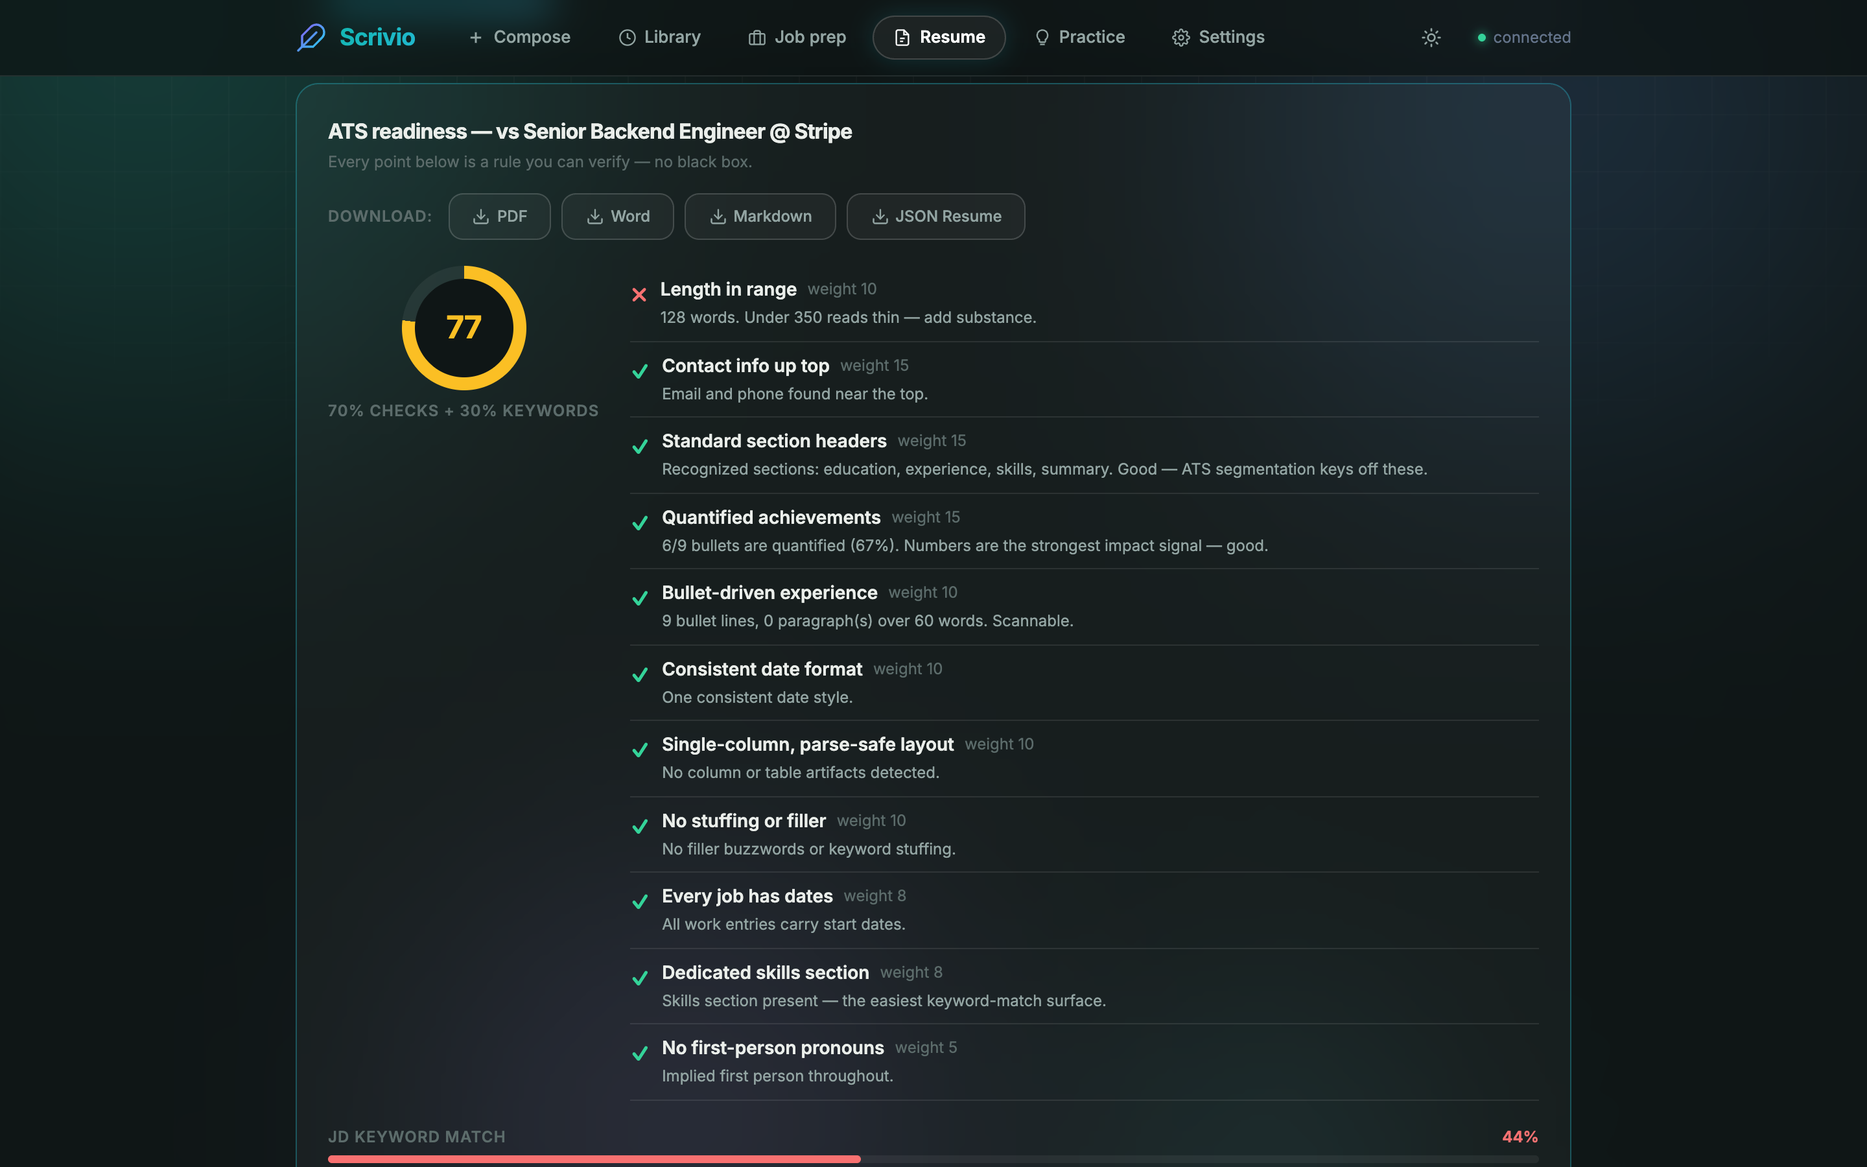
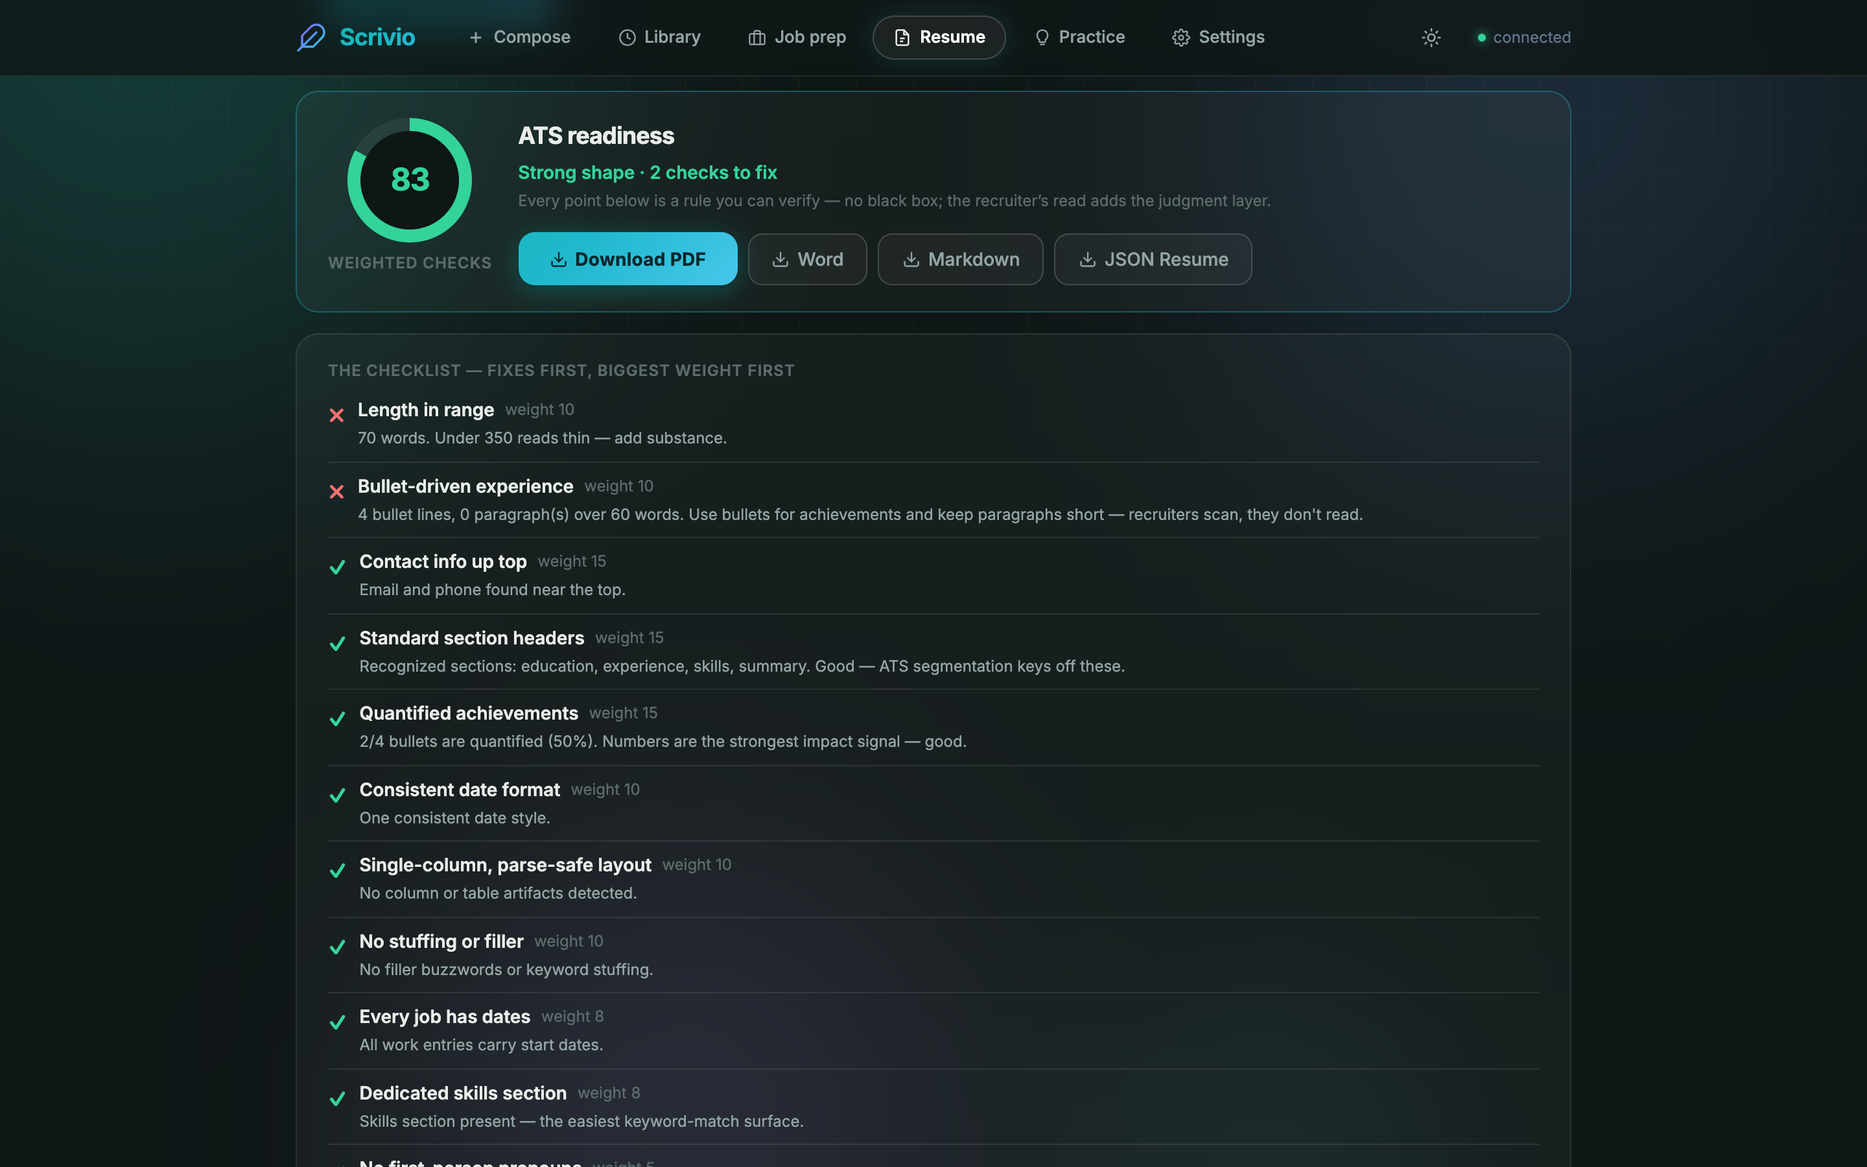
Resume studio UI revamp: progress bar with time-lapse, card hierarchy, downloads impossible to miss
The report was one undifferentiated wall with a buried elapsed clock and
corner download chips. Now:

- A dedicated progress card sits at the top during analyze/tailor: a
  gradient bar filling against a provider-aware estimate (elapsed /
  ~est., CLI 90s/130s vs API 30s/50s from /settings), stage rows
  ("checklist ✓ computed instantly" / "structure & review running"),
  completing to 100% + check before dismissing — failure state holds
  visible with an ✗.
- The report is a stack of focused cards: hero (score ring + verdict
  line "Strong shape · 2 checks to fix · 44% match" + export bar),
  checklist, keyword match, recruiter's read (dashed placeholder while
  analyzing, red card on error), tailor CTA.
- Downloads are now an export bar with Download PDF as the primary
  action, repeated at the TOP of the tailored view (it was below the
  full preview — the exact button-nobody-finds complaint).

README screenshot refreshed. 405 tests green.

Changed region(s): [[0.1562, 0.0933, 0.7188, 1.0], [0.1875, 0.8711, 0.3125, 0.9022], [0.5938, 0.2178, 0.6562, 0.2489]]

diff --git a/ui/index.html b/ui/index.html
@@ -1399,8 +1399,11 @@
       </div>
     </div>
 
-    <!-- Report -->
-    <div id="resume-report" class="hidden card px-6 py-6 mb-6" style="border-color:rgba(32,184,205,0.35)"></div>
+    <!-- Live progress (analyze / tailor) — always at the top, impossible to miss -->
+    <div id="resume-progress" class="hidden card px-6 py-5 mb-6" style="border-color:rgba(32,184,205,0.45)"></div>
+
+    <!-- Report: a stack of focused cards (hero + checklist + keywords + review) -->
+    <div id="resume-report" class="hidden mb-6"></div>
 
     <!-- Tailored -->
     <div id="resume-tailored" class="hidden card px-6 py-6 mb-6" style="border-color:rgba(52,211,153,0.35)"></div>
@@ -3388,6 +3391,20 @@
   let _resumeFile = null;   // { b64, filename } from the upload input
   let _resumeDoc = null;    // the ResumeDoc currently on screen
   let _resumeWatch = null;  // { poll, clock, startedAt } while analyzing/tailoring
+  // Expected durations (seconds) for the progress bar — provider-aware,
+  // refreshed from /settings when the studio opens. Estimates, labeled so.
+  let _resumeEst = { analyze: 75, tailor: 110 };
+
+  async function _refreshResumeEstimates() {
+    try {
+      const r = await fetch('/settings');
+      if (!r.ok) return;
+      const s = await r.json();
+      _resumeEst = s.resolved_provider === 'claude-cli'
+        ? { analyze: 90, tailor: 130 }   // process spawn + subscription pace
+        : { analyze: 30, tailor: 50 };   // direct API
+    } catch (_) { /* keep defaults */ }
+  }
 
   function _stopResumeWatch() {
     if (_resumeWatch) {
@@ -3397,34 +3414,100 @@
     }
   }
 
-  function _fmtElapsed(startedAt) {
-    const s = Math.floor((Date.now() - startedAt) / 1000);
+  function _fmtSecs(total) {
+    const s = Math.max(0, Math.floor(total));
     return `${Math.floor(s / 60)}:${String(s % 60).padStart(2, '0')}`;
   }
 
-  // Poll the doc while a background phase runs; tick an elapsed clock so
-  // the wait is never silent. kind: 'analyze' | 'tailor'.
+  const _PROGRESS_COPY = {
+    analyze: {
+      title: 'Analyzing your resume',
+      done1: 'ATS checklist & keyword match', done1sub: 'computed instantly — the report below is live',
+      stage2: 'Structure mapping & recruiter review',
+      stage2sub: 'two AI passes running in parallel',
+    },
+    tailor: {
+      title: 'Tailoring to the job description',
+      done1: 'Current resume & review loaded', done1sub: 'the rewrite starts from your real structure',
+      stage2: 'Honest rewrite',
+      stage2sub: 'rephrasing and reordering — never inventing',
+    },
+  };
+
+  function _showResumeProgress(kind) {
+    const c = _PROGRESS_COPY[kind];
+    const est = _resumeEst[kind];
+    $('resume-progress').innerHTML = `
+      <div class="flex items-center justify-between flex-wrap gap-2 mb-3">
+        <h3 class="font-display font-bold text-sm flex items-center gap-2.5">
+          <span class="w-2.5 h-2.5 rounded-full flex-shrink-0" style="background:var(--accent-text);animation:pulseGlow 1.4s ease-in-out infinite"></span>
+          ${c.title}
+        </h3>
+        <span class="text-sm font-mono-ui font-semibold" style="color:var(--accent-text)">
+          <span id="resume-progress-elapsed">0:00</span>
+          <span style="color:var(--text-faint)"> / ~${_fmtSecs(est)} est.</span>
+        </span>
+      </div>
+      <div style="height:8px;background:var(--surface-2);border-radius:4px;overflow:hidden">
+        <div id="resume-progress-bar" style="height:100%;width:2%;border-radius:4px;background:var(--grad);transition:width 1s linear"></div>
+      </div>
+      <div class="grid grid-cols-1 sm:grid-cols-2 gap-2 mt-3">
+        <div class="flex items-start gap-2">
+          <span class="flex-shrink-0 mt-0.5 font-bold text-sm" style="color:#34d399">✓</span>
+          <div><p class="text-xs font-semibold" style="color:var(--text)">${c.done1}</p>
+          <p class="text-xs" style="color:var(--text-faint)">${c.done1sub}</p></div>
+        </div>
+        <div class="flex items-start gap-2">
+          <span id="resume-progress-stage2-mark" class="flex-shrink-0 mt-0.5 text-sm" style="color:var(--accent-text)">⏳</span>
+          <div><p class="text-xs font-semibold" style="color:var(--text)">${c.stage2}</p>
+          <p class="text-xs" style="color:var(--text-faint)">${c.stage2sub} · estimate depends on your provider</p></div>
+        </div>
+      </div>`;
+    $('resume-progress').classList.remove('hidden');
+    $('resume-progress').scrollIntoView({ behavior: 'smooth', block: 'nearest' });
+  }
+
+  function _tickResumeProgress(startedAt, kind) {
+    const elapsed = (Date.now() - startedAt) / 1000;
+    const el = $('resume-progress-elapsed');
+    if (el) el.textContent = _fmtSecs(elapsed);
+    const bar = $('resume-progress-bar');
+    // Time-based fill toward the estimate, capped at 94% — the last stretch
+    // belongs to reality, not the animation. Overruns hold at the cap.
+    if (bar) bar.style.width = Math.min(94, 2 + (elapsed / _resumeEst[kind]) * 92) + '%';
+  }
+
+  function _finishResumeProgress(ok) {
+    const bar = $('resume-progress-bar');
+    const mark = $('resume-progress-stage2-mark');
+    if (bar) bar.style.width = '100%';
+    if (mark) { mark.textContent = ok ? '✓' : '✗'; mark.style.color = ok ? '#34d399' : '#f87171'; }
+    setTimeout(() => $('resume-progress').classList.add('hidden'), ok ? 900 : 4000);
+  }
+
+  // Poll the doc while a background phase runs; the progress card above the
+  // report carries the bar + elapsed clock. kind: 'analyze' | 'tailor'.
   function _watchResumeDoc(resumeId, kind) {
     _stopResumeWatch();
     const startedAt = Date.now();
-    const clock = setInterval(() => {
-      const el = $(kind === 'analyze' ? 'resume-live-clock' : 'resume-tailor-clock');
-      if (el) el.textContent = _fmtElapsed(startedAt);
-    }, 1000);
+    _showResumeProgress(kind);
+    const clock = setInterval(() => _tickResumeProgress(startedAt, kind), 1000);
     const poll = setInterval(async () => {
       let doc;
       try {
         const r = await fetch(`/resumes/${resumeId}`);
-        if (!r.ok) { _stopResumeWatch(); return; }  // deleted mid-run
+        if (!r.ok) { _stopResumeWatch(); $('resume-progress').classList.add('hidden'); return; }
         doc = await r.json();
       } catch (_) { return; }  // transient network blip: keep polling
       if (kind === 'analyze' && doc.status !== 'analyzing') {
         _stopResumeWatch();
+        _finishResumeProgress(doc.status === 'ready');
         renderResumeReport(doc);
         loadResumeList();
       } else if (kind === 'tailor' && doc.tailor_status !== 'tailoring') {
         _stopResumeWatch();
         _resumeDoc = doc;
+        _finishResumeProgress(doc.tailor_status !== 'error');
         if (doc.tailor_status === 'error') {
           const status = $('resume-tailor-status');
           if (status) status.textContent = '✗ ' + (doc.tailor_error || 'Tailoring failed.');
@@ -3445,6 +3528,7 @@
     showView('resume');
     loadResumeList();
     loadResumeJobTargets();
+    _refreshResumeEstimates();
   }
 
   async function loadResumeJobTargets() {
@@ -3567,12 +3651,22 @@
 
   const _DL_ICON = '<svg class="w-3.5 h-3.5" viewBox="0 0 24 24" fill="none" stroke="currentColor" stroke-width="2" stroke-linecap="round" stroke-linejoin="round"><path d="M21 15v4a2 2 0 0 1-2 2H5a2 2 0 0 1-2-2v-4"/><polyline points="7 10 12 15 17 10"/><line x1="12" y1="15" x2="12" y2="3"/></svg>';
 
-  function _downloadLinks(rid, version) {
-    const label = version === 'tailored' ? 'Download tailored' : 'Download';
-    return `<span class="text-xs font-semibold uppercase tracking-wider self-center mr-1" style="color:var(--text-faint)">${label}:</span>` +
-      ['pdf', 'docx', 'md', 'json'].map(fmt =>
-        `<a class="btn-outline text-xs" style="display:inline-flex;align-items:center;gap:5px" href="/resumes/${rid}/download?fmt=${fmt}&version=${version}" download="resume-${version}.${fmt}" title="Download the ${version} resume as ${{pdf: 'a PDF (what most application portals want)', docx: 'a Word document', md: 'Markdown', json: 'JSON Resume (imports into Reactive Resume)'}[fmt]}">${_DL_ICON}${{pdf: 'PDF', docx: 'Word', md: 'Markdown', json: 'JSON Resume'}[fmt]}</a>`
-      ).join('');
+  // Prominent export bar: PDF is the primary action (what portals want),
+  // the other formats sit beside it. Used in the hero card and the
+  // tailored view — downloads must never be something users hunt for.
+  function _downloadBar(rid, version) {
+    const titles = { pdf: 'a PDF (what most application portals want)', docx: 'a Word document', md: 'Markdown', json: 'JSON Resume (imports into Reactive Resume)' };
+    const labels = { pdf: 'Download PDF', docx: 'Word', md: 'Markdown', json: 'JSON Resume' };
+    const link = (fmt, cls) =>
+      `<a class="${cls}" style="display:inline-flex;align-items:center;gap:6px" href="/resumes/${rid}/download?fmt=${fmt}&version=${version}" download="resume-${version}.${fmt}" title="Download the ${version} resume as ${titles[fmt]}">${_DL_ICON}${labels[fmt]}</a>`;
+    return `
+      <div class="flex items-center gap-2 flex-wrap">
+        ${link('pdf', 'btn-primary text-sm')}
+        ${link('docx', 'btn-outline text-sm')}
+        ${link('md', 'btn-outline text-sm')}
+        ${link('json', 'btn-outline text-sm')}
+        ${version === 'tailored' ? '<span class="text-xs ml-1" style="color:var(--text-faint)">tailored version</span>' : ''}
+      </div>`;
   }
 
   function renderResumeReport(doc) {
@@ -3609,25 +3703,41 @@
 
     const review = doc.review;
     const CATEGORY_COLORS = { impact: '#fbbf24', clarity: '#60a5fa', structure: '#a78bfa', relevance: '#34d399', 'red-flag': '#f87171' };
-    // Live states: the LLM phase (structure + recruiter review) may still
-    // be running or may have failed — the deterministic report above is
-    // valid either way.
-    const liveHtml = doc.status === 'analyzing' ? `
-      <div class="mt-6 pt-5" style="border-top:1px solid var(--stroke)">
-        <div class="flex items-center gap-3">
-          <span class="w-2 h-2 rounded-full flex-shrink-0" style="background:var(--accent-text);animation:pulseGlow 1.5s ease-in-out infinite"></span>
-          <p class="text-sm" style="color:var(--text-dim)">
-            The recruiter is reading your resume and mapping its structure…
-            <span id="resume-live-clock" class="font-mono-ui font-semibold" style="color:var(--accent-text)">0:00</span>
-          </p>
+
+    const failed = report.checks.filter(c => !c.passed).length;
+    const verdictLine = [
+      report.score >= 80 ? 'Strong shape' : report.score >= 60 ? 'Getting there' : 'Needs work',
+      failed ? `${failed} check${failed > 1 ? 's' : ''} to fix` : 'all checks pass',
+      cov ? `${cov.percent}% keyword match` : null,
+    ].filter(Boolean).join(' · ');
+    const downloadsHtml = doc.structured
+      ? _downloadBar(doc.resume_id, 'original')
+      : `<span class="text-xs" style="color:var(--text-faint)">${doc.status === 'analyzing' ? 'Downloads unlock when analysis finishes.' : 'Downloads unavailable — structure extraction failed.'}</span>`;
+
+    // Hero: score + verdict + the export bar, before anything scrolls.
+    const heroCard = `
+      <div class="card px-6 py-5 mb-4" style="border-color:rgba(32,184,205,0.35)">
+        <div class="flex flex-col sm:flex-row gap-5 items-center sm:items-start">
+          ${_resumeScoreRing(report.score, cov ? '70% checks + 30% keywords' : 'weighted checks')}
+          <div class="min-w-0 flex-1 text-center sm:text-left">
+            <h3 class="font-display font-bold text-lg">ATS readiness${doc.jd_label ? ` — vs ${escapeHtml(doc.jd_label)}` : ''}</h3>
+            <p class="text-sm mt-1 font-semibold" style="color:${atsColor(report.score)}">${verdictLine}</p>
+            <p class="text-xs mt-1" style="color:var(--text-faint)">Every point below is a rule you can verify — no black box${doc.status !== 'ready' ? '' : '; the recruiter’s read adds the judgment layer'}.</p>
+            <div class="mt-4">${downloadsHtml}</div>
+          </div>
         </div>
-        <p class="text-xs mt-1.5 ml-5" style="color:var(--text-faint)">Usually 20–60s with an API key, 1–2 minutes on a subscription CLI. The checklist above is final — this adds the judgment layer.</p>
-      </div>` : doc.status === 'error' ? `
-      <div class="mt-6 p-4 rounded-xl" style="background:rgba(248,113,113,0.07);border:1px solid rgba(248,113,113,0.3)">
-        <p class="text-sm" style="color:#fca5a5">${escapeHtml(doc.error || 'The review step failed.')}</p>
-      </div>` : '';
-    const reviewHtml = review ? `
-      <div class="mt-6 pt-5" style="border-top:1px solid var(--stroke)">
+      </div>`;
+
+    const checklistCard = `
+      <div class="card px-6 py-5 mb-4">
+        <p class="text-xs font-semibold uppercase tracking-wider mb-1" style="color:var(--text-faint)">The checklist — fixes first, biggest weight first</p>
+        ${checkRows}
+      </div>`;
+
+    const covCard = cov ? `<div class="card px-6 py-5 mb-4">${covHtml.replace('class="mt-5"', 'class=""')}</div>` : '';
+
+    const reviewCard = review ? `
+      <div class="card px-6 py-5 mb-4" style="border-color:rgba(32,184,205,0.35)">
         <p class="text-xs font-semibold uppercase tracking-wider mb-2" style="color:var(--accent-text)">Recruiter's read</p>
         <p class="text-sm leading-relaxed mb-4" style="color:var(--text)">${escapeHtml(review.summary)}</p>
         ${review.strengths.length ? `<p class="text-xs mb-3" style="color:#4ade80">✓ ${review.strengths.map(escapeHtml).join('<br/>✓ ')}</p>` : ''}
@@ -3638,40 +3748,33 @@
             <p class="text-xs mt-1" style="color:var(--text)"><span class="font-semibold" style="color:var(--accent-text)">Fix:</span> ${escapeHtml(i.fix)}</p>
           </div>`).join('')}
         ${review.missing_keywords.length ? `<p class="text-xs mt-3" style="color:var(--text-faint)">Also missing vs the JD: <span style="color:var(--text-dim)">${review.missing_keywords.map(escapeHtml).join(' · ')}</span></p>` : ''}
+      </div>` : doc.status === 'analyzing' ? `
+      <div class="card px-6 py-5 mb-4" style="border-style:dashed">
+        <p class="text-xs font-semibold uppercase tracking-wider mb-2" style="color:var(--text-faint)">Recruiter's read</p>
+        <p class="text-sm" style="color:var(--text-dim)">Being written now — watch the progress bar above. The checklist and score are already final.</p>
+      </div>` : doc.status === 'error' ? `
+      <div class="card px-6 py-5 mb-4" style="border-color:rgba(248,113,113,0.4)">
+        <p class="text-sm" style="color:#fca5a5">${escapeHtml(doc.error || 'The review step failed.')}</p>
       </div>` : '';
 
     const canTailor = !!doc.jd_text && !!doc.structured && doc.status === 'ready';
     const tailorHint = doc.status === 'analyzing'
       ? 'Available once the analysis above finishes.'
       : !doc.jd_text ? 'Add a job description above to unlock tailoring.'
-      : !doc.structured ? 'Unavailable — structure extraction failed.' : '';
-    const downloadsHtml = doc.structured
-      ? _downloadLinks(doc.resume_id, 'original')
-      : doc.status === 'analyzing'
-        ? '<span class="text-xs" style="color:var(--text-faint)">Downloads unlock when analysis finishes.</span>'
-        : '<span class="text-xs" style="color:var(--text-faint)">Downloads unavailable — structure extraction failed.</span>';
-    el.innerHTML = `
-      <div class="flex items-start justify-between flex-wrap gap-4 mb-5">
-        <div class="min-w-0">
-          <h3 class="font-display font-bold">ATS readiness${doc.jd_label ? ` — vs ${escapeHtml(doc.jd_label)}` : ''}</h3>
-          <p class="text-xs mt-1" style="color:var(--text-faint)">Every point below is a rule you can verify — no black box.</p>
+      : !doc.structured ? 'Unavailable — structure extraction failed.' : 'Rewrites honestly for this JD — never invents experience.';
+    const tailorCard = `
+      <div class="card px-6 py-5 mb-4">
+        <div class="flex items-center gap-3 flex-wrap">
+          <button type="button" id="resume-tailor-btn" class="btn-primary text-sm" ${canTailor ? '' : 'disabled'}>Tailor to this JD</button>
+          <span id="resume-tailor-status" class="text-sm" style="color:var(--text-dim)">${tailorHint}</span>
         </div>
-        <div class="flex items-center gap-2 flex-wrap">${downloadsHtml}</div>
-      </div>
-      <div class="flex flex-col sm:flex-row gap-6 items-start">
-        ${_resumeScoreRing(report.score, cov ? '70% checks + 30% keywords' : 'weighted checks')}
-        <div class="min-w-0 flex-1">${checkRows}</div>
-      </div>
-      ${covHtml}
-      ${liveHtml}
-      ${reviewHtml}
-      <div class="flex items-center gap-3 mt-6 pt-5" style="border-top:1px solid var(--stroke)">
-        <button type="button" id="resume-tailor-btn" class="btn-primary text-sm" ${canTailor ? '' : 'disabled'}>Tailor to this JD</button>
-        <span id="resume-tailor-status" class="text-sm" style="color:var(--text-dim)">${tailorHint}</span>
       </div>`;
+
+    el.innerHTML = heroCard + checklistCard + covCard + reviewCard + tailorCard;
     el.classList.remove('hidden');
     if (canTailor) $('resume-tailor-btn').addEventListener('click', runResumeTailor);
-    el.scrollIntoView({ behavior: 'smooth', block: 'start' });
+    if (doc.status !== 'analyzing')  // while analyzing, the progress card owns the viewport
+      el.scrollIntoView({ behavior: 'smooth', block: 'start' });
   }
 
   async function runResumeTailor() {
@@ -3682,12 +3785,8 @@
       const r = await fetch(`/resumes/${_resumeDoc.resume_id}/tailor`, { method: 'POST' });
       if (!r.ok) { const d = await r.json().catch(() => ({detail: r.statusText})); throw new Error(d.detail || `HTTP ${r.status}`); }
       _resumeDoc = await r.json();
-      // The rewrite runs in the background; keep the user company with a
-      // live clock until the poll sees it finish.
-      status.innerHTML =
-        'Rewriting honestly — nothing invented… ' +
-        '<span id="resume-tailor-clock" class="font-mono-ui font-semibold" style="color:var(--accent-text)">0:00</span>' +
-        ' <span style="color:var(--text-faint)">(up to ~2 min on a subscription CLI)</span>';
+      // The progress card (bar + elapsed) takes over from here.
+      status.textContent = 'Rewriting — progress above.';
       _watchResumeDoc(_resumeDoc.resume_id, 'tailor');
     } catch (err) {
       status.textContent = '✗ ' + err.message;
@@ -3740,13 +3839,14 @@
             <span class="px-2.5 py-1 rounded-full text-sm font-bold" style="color:${atsColor(after)};background:color-mix(in srgb, ${atsColor(after)} 12%, transparent)">${after}</span>
           </div>` : ''}
       </div>
+      <div class="mb-5">${_downloadBar(doc.resume_id, 'tailored')}</div>
       ${mdHtml ? `<div class="paper px-6 sm:px-8 py-7 mb-5"><article class="prose text-sm">${mdHtml}</article></div>` : ''}
       <p class="text-xs font-semibold uppercase tracking-wider mb-2" style="color:var(--text-faint)">What changed, and why</p>
       ${changesHtml || '<p class="text-xs" style="color:var(--text-faint)">No changes logged.</p>'}
       ${warningsHtml}
-      <div class="flex items-center gap-2 mt-5 flex-wrap">
-        ${_downloadLinks(doc.resume_id, 'tailored')}
-        <span class="text-xs ml-1" style="color:var(--text-faint)">Fill every [METRIC] with your real number before you send it.</span>
+      <div class="mt-5 pt-4" style="border-top:1px solid var(--stroke)">
+        ${_downloadBar(doc.resume_id, 'tailored')}
+        <p class="text-xs mt-2" style="color:var(--text-faint)">Fill every [METRIC] with your real number before you send it.</p>
       </div>`;
     el.classList.remove('hidden');
     el.scrollIntoView({ behavior: 'smooth', block: 'start' });
